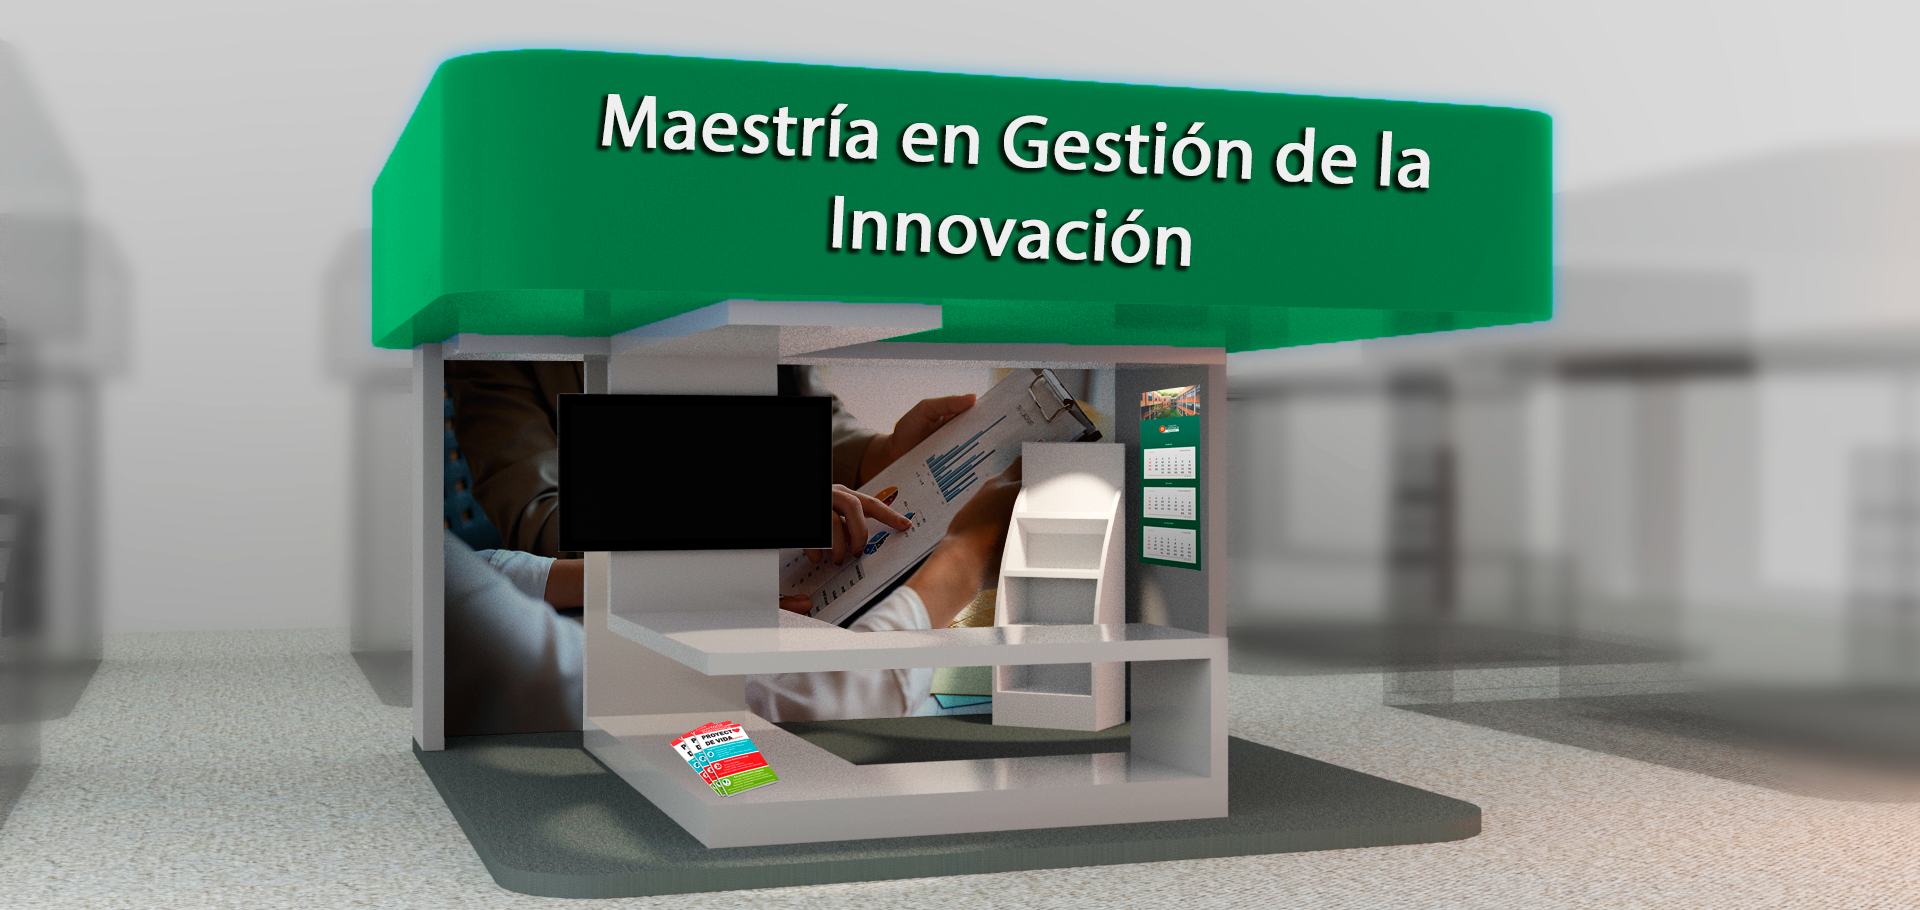
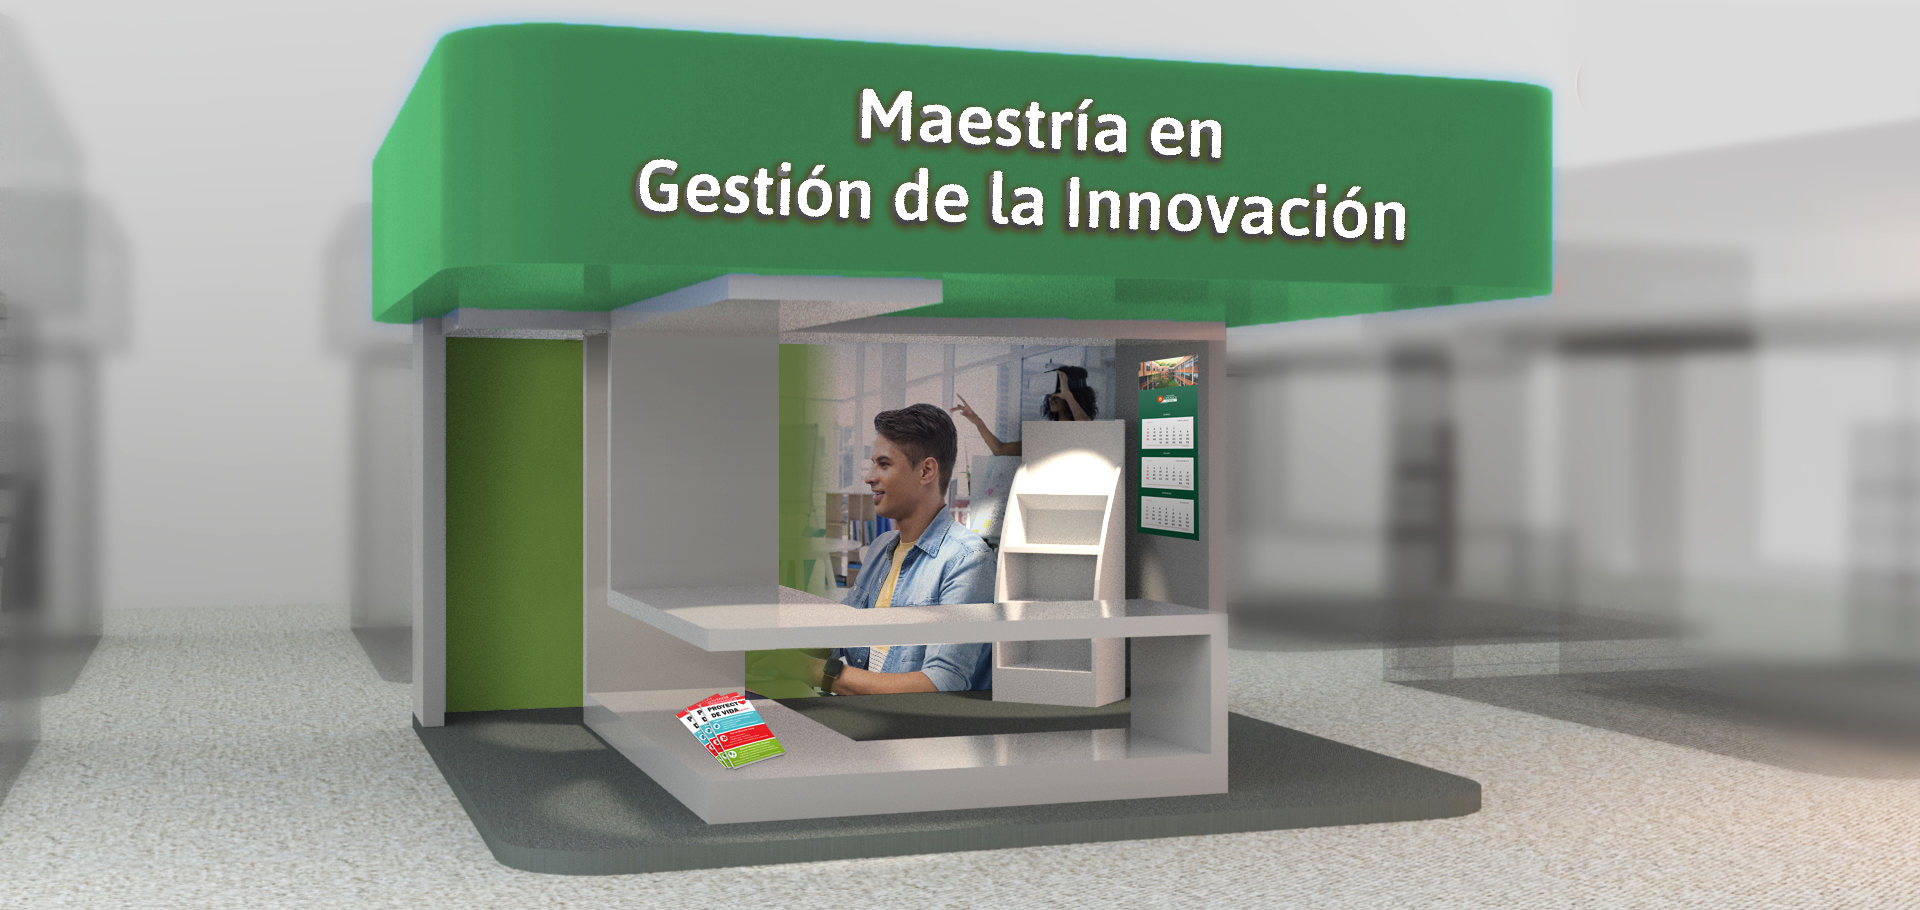
Se trabaja para la habilitacion de nuevos posgrados faltantes

diff --git a/src/app/pages/posgrado/doctorado-educacion/doctorado-educacion.component.ts b/src/app/pages/posgrado/doctorado-educacion/doctorado-educacion.component.ts
@@ -20,10 +20,10 @@ export class DoctoradoEducacionComponent implements OnInit {
     ]
 
     this.listFotos = [
-      {url: "./assets/img/pregrado/administracion-empresa/galeria/foto 2.png"},
       {url: "./assets/img/pregrado/administracion-empresa/galeria/foto 1.png"},
-      {url: "./assets/img/pregrado/administracion-empresa/galeria/foto 3.png"},
-      {url: "./assets/img/pregrado/administracion-empresa/galeria/foto 4.png"}
+      // {url: "./assets/img/pregrado/administracion-empresa/galeria/foto 2.png"},
+      // {url: "./assets/img/pregrado/administracion-empresa/galeria/foto 3.png"},
+      // {url: "./assets/img/pregrado/administracion-empresa/galeria/foto 4.png"}
     ]
   }
 

diff --git a/src/app/pages/posgrado/doctorado-educacion/doctorado-educacion.component.html b/src/app/pages/posgrado/doctorado-educacion/doctorado-educacion.component.html
@@ -1,7 +1,7 @@
 <div class="container w-100 mw-100 h-100">
   <div class="row px-0 h-100">
     <div class="col-12 px-0 h-100">
-      <img src="./assets/img/pregrado/administracion-empresa/ad-empresa.png" class="img-fluid h-100 mh-100" alt="fondo expo virtual ucp">
+      <img src="./assets/img/posgrado/doctorado-educacion/doctorado-educacion.png" class="img-fluid h-100 mh-100" alt="fondo expo virtual ucp">
       <a [routerLink]="['/mapa-expo']" title="Volver a la oferta académica" class="homeStand absoluto" >
         <img src="./assets/img/general/home.png" class="box-animated img-fluid" alt="home expo virtual ucp">
       </a>
